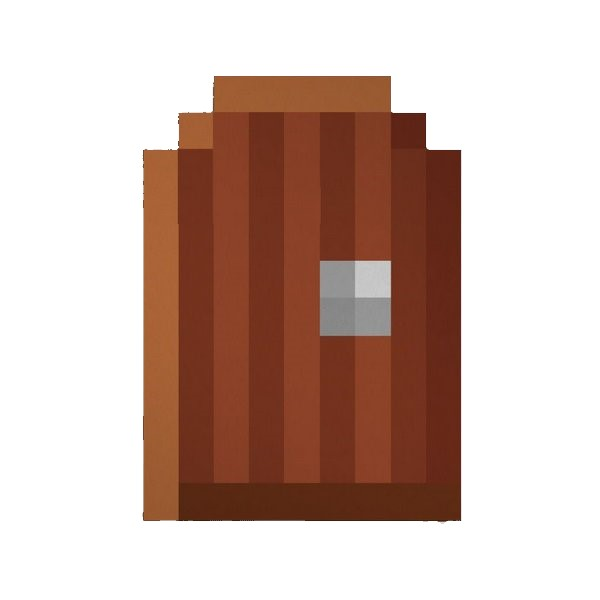
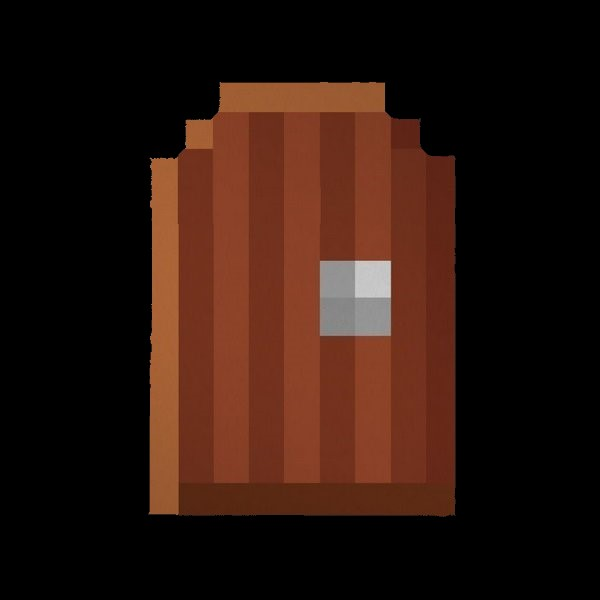
porta

diff --git a/mapa.py b/mapa.py
@@ -125,8 +125,8 @@ background = pygame.transform.scale(bg, (WIDTH,HEIGHT))
 background_rect = background.get_rect()
 score_font=pygame.font.Font("PressStart2P.ttf", 28)
 porta = pygame.image.load('porta.jpg').convert()
-porta = pygame.transform.scale(porta, (130,110))
-porta.set_colorkey(BRANCO)
+porta = pygame.transform.scale(porta, (130,120))
+porta.set_colorkey(PRETO)
 sonic = pygame.image.load('sonic.png').convert()
 sonic = pygame.transform.scale(sonic, (100, 138))
 sonic.set_colorkey((88,88,88))
@@ -192,7 +192,7 @@ while run:
         skn.blit(text_surface5,(13,50))
         skn.blit(text_surface5,(300,50))
     else:
-        skn.blit(porta,(175,0))
+        skn.blit(porta,(175,-10))
     skn.blit(sonic,(360,380))
     skn.blit(venom,(40,380))
     skn.blit(yasuo,(360,150))

diff --git a/Fase4.py b/Fase4.py
@@ -358,6 +358,7 @@ def fase4():
     clock = pygame.time.Clock()
     
     skn = pygame.display.set_mode((WIDTH,HEIGHT))
+    yas =pygame.mixer.Sound('sorye.wav')
     pygame.mixer.music.load('naruto2.mpeg')
     pygame.mixer.music.set_volume(2)
     background = pygame.image.load('yasuobg.jpg').convert()
@@ -408,6 +409,7 @@ def fase4():
                     inventario.append('Fase4')
                     
                 if (c/60)%3==0:
+                    yas.play()
                     bullet= Bullet(chefe.rect.centerx)
                     all_sprites.add(bullet)
                     mobs.add(bullet)
